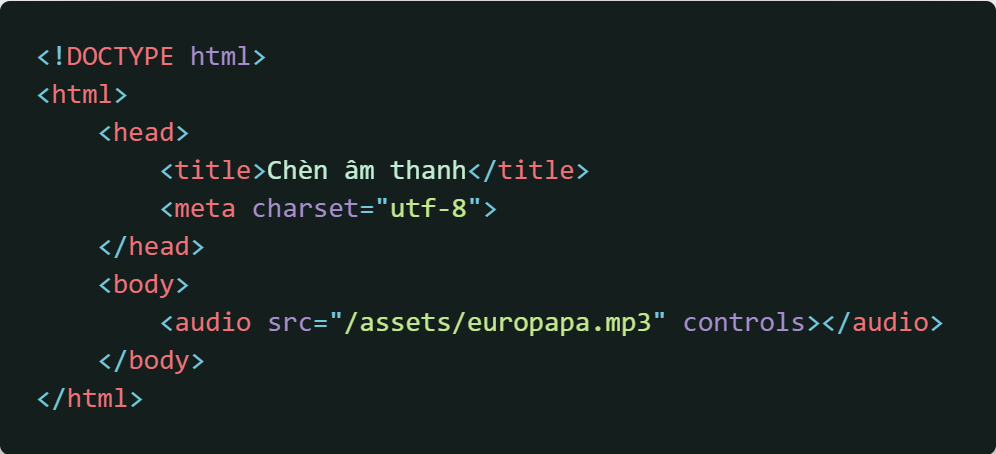
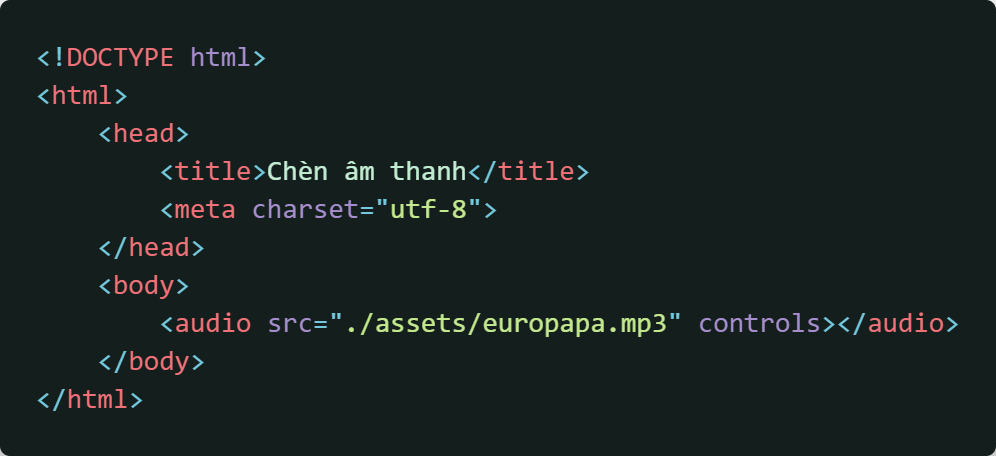
Cập nhật link ở bài 5

diff --git a/img.html b/img.html
@@ -5,6 +5,6 @@
 		<meta charset="utf-8">
 	</head>
 	<body>
-		<img src="/assets/sa4.jpg" alt="Logo của SA4" width="500" height="500">
+		<img src="./assets/sa4.jpg" alt="Logo của SA4" width="500" height="500">
 	</body>
 </html>

diff --git a/audio.html b/audio.html
@@ -5,6 +5,6 @@
 		<meta charset="utf-8">
 	</head>
 	<body>
-		<audio src="/assets/europapa.mp3" controls></audio>
+		<audio src="./assets/europapa.mp3" controls></audio>
 	</body>
 </html>

diff --git a/video.html b/video.html
@@ -5,6 +5,6 @@
 		<meta charset="utf-8">
 	</head>
 	<body>
-		<video src="/assets/video.mp4" controls></video>
+		<video src="./assets/video.mp4" controls></video>
 	</body>
 </html>
